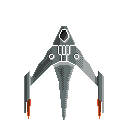
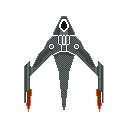
With updated art

Changed region(s): [[0.1875, 0.125, 0.8125, 0.9375]]

diff --git a/It's Still In Alpha/It's Still In Alpha/It's Still In Alpha/GameScreens/PlayScreen.cs b/It's Still In Alpha/It's Still In Alpha/It's Still In Alpha/GameScreens/PlayScreen.cs
@@ -239,12 +239,20 @@ namespace It_s_Still_In_Alpha.GameScreens
                             tile.SourceRect = new Rectangle(tile.tileImage.Bounds.Width/2, tile.tileImage.Bounds.Height/2, tile.tileImage.Bounds.Width/2, tile.tileImage.Bounds.Height/2);
                             break;
                         case 'g':
-                            tile.LoadContent("wall_2x1_astroidBelt1");
+                            tile.LoadContent("wall_1x2");
                             tile.SourceRect = new Rectangle(0, 0, tile.tileImage.Bounds.Width/2, tile.tileImage.Bounds.Height);
                             break;
                         case 'h':
-                            tile.LoadContent("wall_2x1_astroidBelt1");
+                            tile.LoadContent("wall_1x2");
                             tile.SourceRect = new Rectangle(tile.tileImage.Bounds.Width/2, 0, tile.tileImage.Bounds.Width/2, tile.tileImage.Bounds.Height);
+                            break;
+                        case 'i':
+                            tile.LoadContent("wall_2x1");
+                            tile.SourceRect = new Rectangle(0, 0, tile.tileImage.Bounds.Width, tile.tileImage.Bounds.Height/2);
+                            break;
+                        case 'j':
+                            tile.LoadContent("wall_2x1");
+                            tile.SourceRect = new Rectangle(0, tile.tileImage.Bounds.Height/2, tile.tileImage.Bounds.Width, tile.tileImage.Bounds.Height/2);
                             break;
                         default:
                             break;

diff --git a/It's Still In Alpha/It's Still In Alpha/It's Still In Alpha/Player.cs b/It's Still In Alpha/It's Still In Alpha/It's Still In Alpha/Player.cs
@@ -69,6 +69,24 @@ namespace It_s_Still_In_Alpha
 
         public override void Update(GameTime gameTime)
         {
+            switch (Direction)
+            {
+                case Facing.Up:
+                    shipImageName = "player_ship_up";
+                    break;
+                case Facing.Down:
+                    shipImageName = "player_ship_down";
+                    break;
+                case Facing.Left:
+                    shipImageName = "player_ship_left";
+                    break;
+                case Facing.Right:
+                    shipImageName = "player_ship_right";
+                    break;
+
+            }
+            LoadContent();
+
             base.Update(gameTime);
         }
 
@@ -78,6 +96,8 @@ namespace It_s_Still_In_Alpha
                 score.ToString(),
                 new Vector2(GameRef.screenRectangle.Center.X + 650, GameRef.screenRectangle.Center.Y + 400),
                 Color.Yellow);
+
+            //GameRef.spriteBatch.Draw(shipImage, Position*SourceSize, Color.White);
             base.Draw(spriteBatch);
         }
 

diff --git a/It's Still In Alpha/It's Still In Alpha/It's Still In Alpha/Ship.cs b/It's Still In Alpha/It's Still In Alpha/It's Still In Alpha/Ship.cs
@@ -36,7 +36,7 @@ namespace It_s_Still_In_Alpha
         protected bool has_moved = false;
         public double last_move_time = 0.0; 
 
-        Texture2D shipImage;
+        protected Texture2D shipImage;
         protected string shipImageName;
         Dictionary<string, List<Rectangle>> Frames;
         string currentAnimation;
